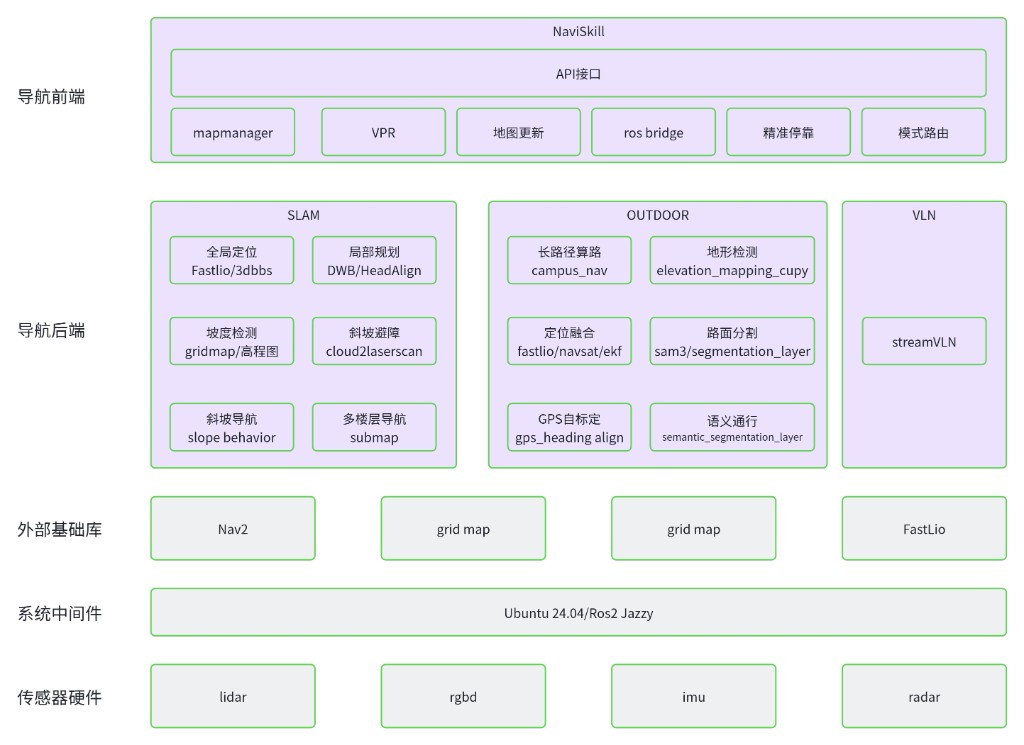
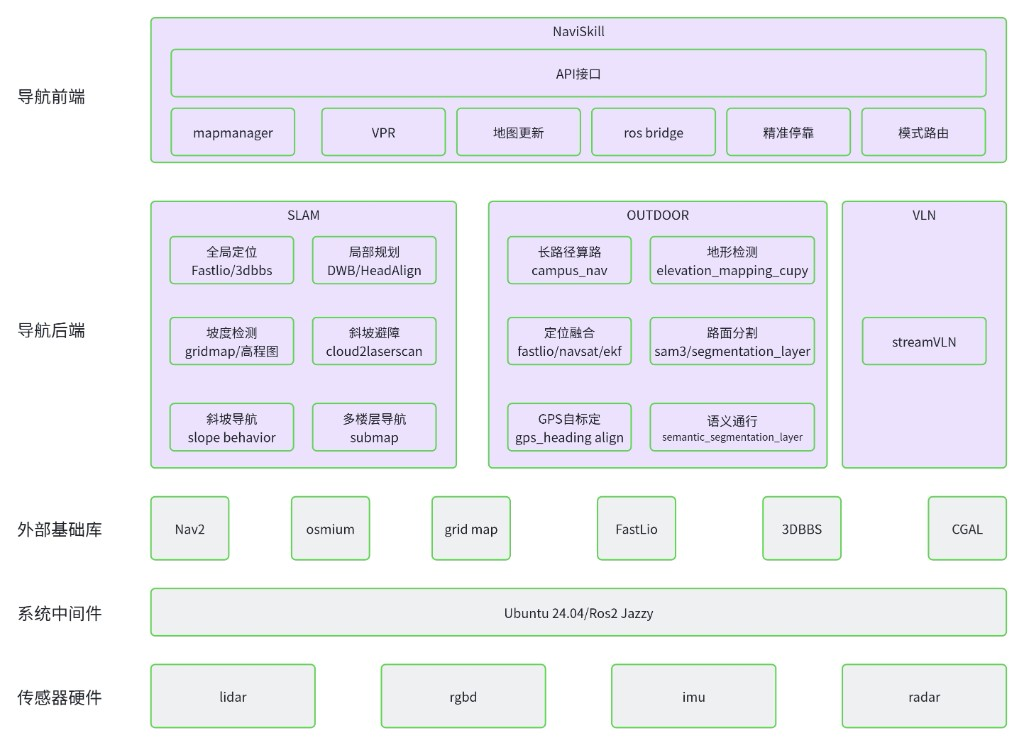
adjust parameters

diff --git a/ros2_ws/src/FAST_LIO/launch/elevation_mapping_cupy_fastlio.launch.py b/ros2_ws/src/FAST_LIO/launch/elevation_mapping_cupy_fastlio.launch.py
@@ -110,7 +110,7 @@ def generate_launch_description():
             'slope_free_deg': 5.0,
             # 统一阈值：>=15° 判不能通行(TerrainLayer 记 LETHAL 并 60m 持久)，
             # 8~12° 路口斜坡落在软代价区间仍可走。
-            'slope_lethal_deg': 12.0,
+            'slope_lethal_deg': 13.0,
             # <1 使中等坡度代价更高(更强软避让),不改 lethal 阈值。0.5=明显加重。
             'slope_gamma': 0.99,
             # 地形代价点云(给自定义 TerrainLayer 用)。
@@ -131,7 +131,12 @@ def generate_launch_description():
             'angle_min': -3.14159265,
             'angle_max': 3.14159265,
             'angle_increment': 0.0087,
-            'range_min': 0.1,
+            # 自车点过滤：雷达会打到自己车身，这些点过高度带后被投进 scan、落在
+            # footprint 内。0.45 > footprint 外接半径(0.60x0.50 -> √(0.30²+0.25²)
+            # = 0.39 m)可清零。BaseObstacle 只看中心格所以之前无感；ObstacleFootprint
+            # 检查整圈，自车点会让所有轨迹判死、车停着不动(实测 48.9% 帧
+            # footprint 内有 >=4 个点)。
+            'range_min': 0.45,
             'range_max': 30.0,
 
             # ---- 负障碍(悬崖/下沉)检测 -------------------------------------

diff --git a/ros2_ws/src/cloud_to_laserscan/src/terrain_scan_node.cpp b/ros2_ws/src/cloud_to_laserscan/src/terrain_scan_node.cpp
@@ -187,7 +187,9 @@ public:
     angle_min_ = declare_parameter<double>("angle_min", -3.141592653589793);
     angle_max_ = declare_parameter<double>("angle_max", 3.141592653589793);
     angle_increment_ = declare_parameter<double>("angle_increment", 0.008726646259971648);
-    range_min_ = declare_parameter<double>("range_min", 0.1);
+    // 滤掉落进 footprint 的自车点(外接半径 0.39 m，取 0.45)。BaseObstacle 只看
+    // 中心格所以之前无感；ObstacleFootprint 检查整圈，自车点会判死所有轨迹。
+    range_min_ = declare_parameter<double>("range_min", 0.45);
     range_max_ = declare_parameter<double>("range_max", 30.0);
 
     // ---- 多帧累积(把稀疏单帧补满, 障碍不闪烁)------------------------------

diff --git a/ros2_ws/src/cloud_to_laserscan/launch/terrain_scan_launch.py b/ros2_ws/src/cloud_to_laserscan/launch/terrain_scan_launch.py
@@ -40,7 +40,8 @@ def generate_launch_description():
         'angle_min': -3.141592653589793,
         'angle_max': 3.141592653589793,
         'angle_increment': 0.008726646259971648,  # 0.5 deg
-        'range_min': 0.1,
+        # 滤掉落进 footprint 的自车点(0.60x0.50 外接半径 0.39 m，取 0.45)。
+        'range_min': 0.45,
         'range_max': 30.0,
         'publish_filtered_pcd': False,
     }
